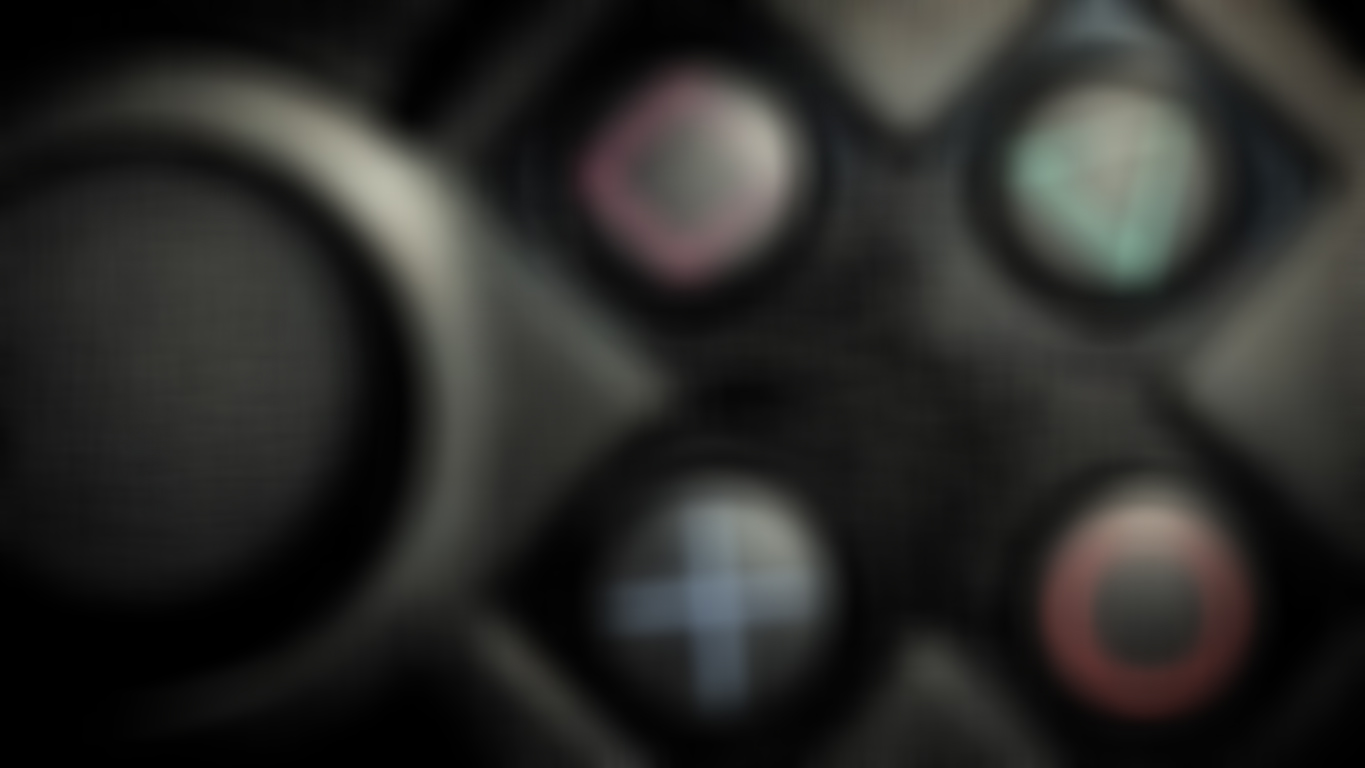
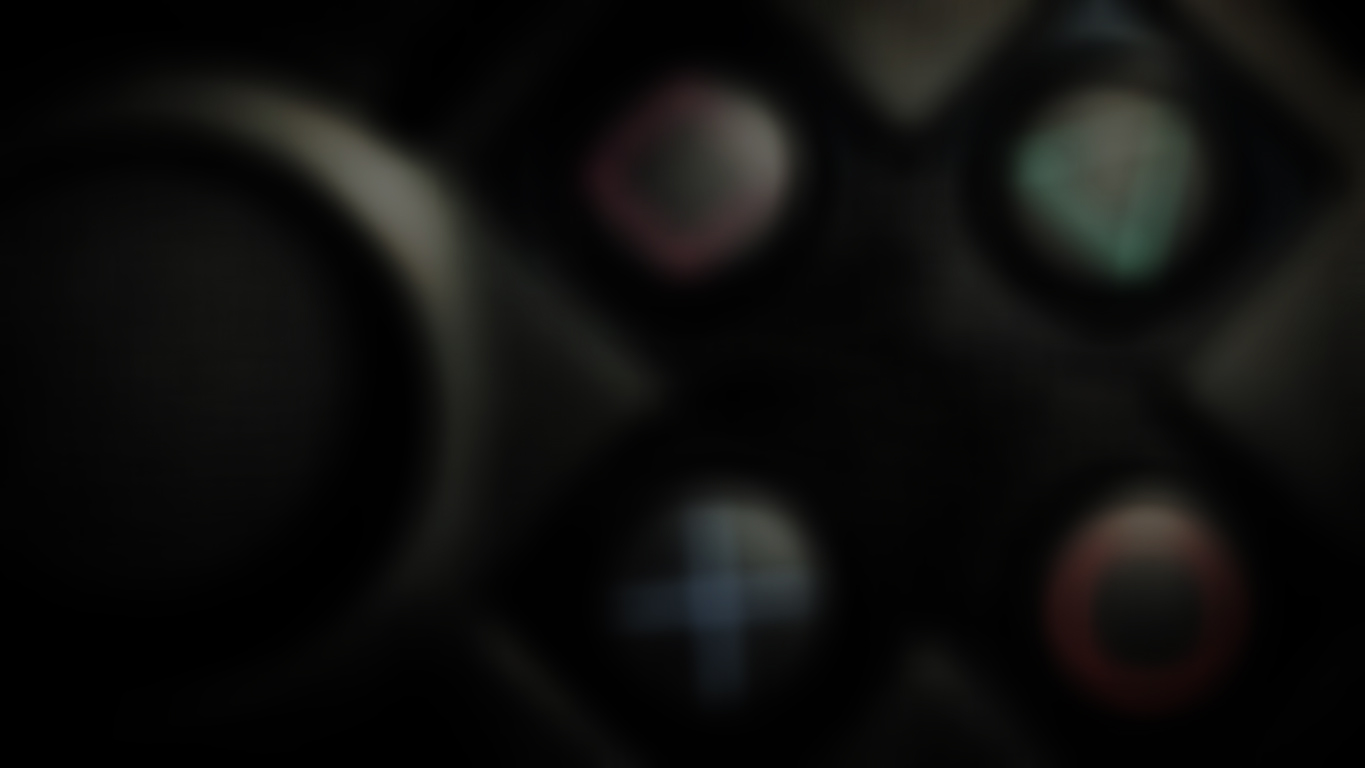
Background image (bg.jpg) just enhanced
also little changes on main.qml

diff --git a/main.qml b/main.qml
@@ -162,6 +162,16 @@ ApplicationWindow
                 height:width
             }
 
+            Image
+            {
+               id:spRb_image
+               anchors.right:spRb.left
+               anchors.verticalCenter: spRb.verticalCenter
+               width:item_countdown.width/6
+               height:width/sourceSize.width*sourceSize.height
+               source:"qrc:/sp.png"
+            }
+
             RadioButton
             {
                 id:mpRb
